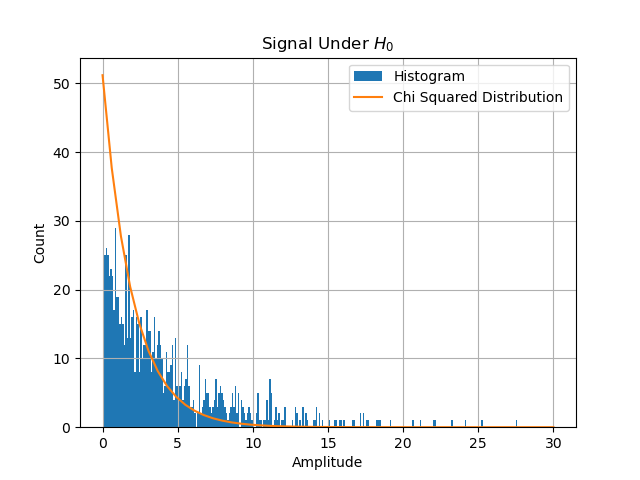
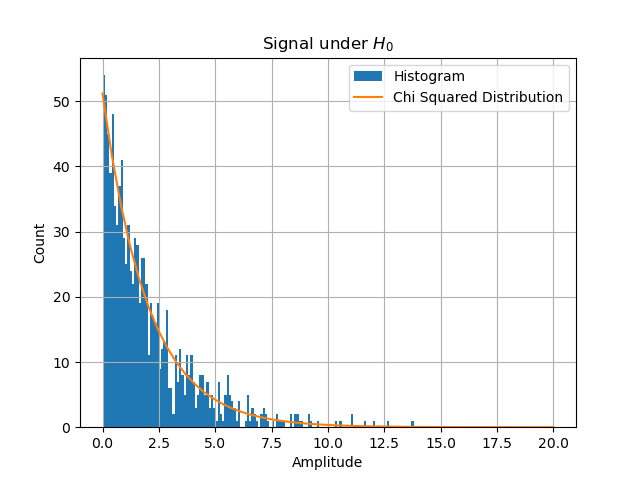
do task 5 and clean up more code

diff --git a/T3.py b/T3.py
@@ -1,62 +1,48 @@
 import matplotlib.pyplot as plt
-import sys
-from typing import Callable
 import numpy as np
 from data import load_data
-import math
+from scipy.stats import chi2
 
-if len(sys.argv) < 2:
-    print("Usage: python T1.py <filename.mat>")
-    sys.exit(1)
+def calucalte_variance(x: np.ndarray) -> np.floating:
+    real_varaiance = np.var(x.real)
+    imag_varaiance = np.var(x.imag)
 
-x = load_data(sys.argv[1])
-N = len(x)
+    return real_varaiance + imag_varaiance
 
-def generate_gaussian(mean: float, variance: float) -> Callable[[np.ndarray], np.ndarray]:
-    def f(x: np.ndarray) -> np.ndarray:
-        return 1/(np.sqrt(2*np.pi*variance))*np.exp(-(mean-x)**2/(2*variance))
+data_s = load_data("T3_data_sigma_s")
+data_w = load_data("T3_data_sigma_w")
 
-    return f
+signal_variance = calucalte_variance(data_s)
+noise_variance = calucalte_variance(data_w)
 
+def create_histogram(name: str, title: str, x: np.ndarray, var: np.floating, num_bins = 200, range = (0, 20)):
+    N = len(x)
+    bin_size = (range[1] - range[0]) / num_bins
 
-def generate_chi(k: int) -> Callable[[np.ndarray], np.ndarray]:
-    def f(x: np.ndarray) -> np.ndarray:
-        return 1/(2**(k/2) * math.gamma(k/2)) * x**(k/2 - 1) * np.exp(-x/2)
+    # Chi Squared Distribution
+    x_dist = np.linspace(*range)
+    y_dist = N * bin_size * chi2.pdf(x_dist, 2)
 
-    return f
+    # Normalization
+    x_normalized = 2 * np.abs(x**2) / var
 
-# Variance
-var_real = np.var(x.real)
-var_imag = np.var(x.imag)
+    plt.clf()
+    plt.title(title)
+    plt.xlabel("Amplitude")
+    plt.ylabel("Count")
+    plt.hist(x_normalized, bins=num_bins, range=range, label="Histogram")
+    plt.plot(x_dist, y_dist, label="Chi Squared Distribution")
+    plt.legend()
+    plt.grid()
 
-var = (var_real + var_imag) / 2
+    plt.savefig(f"{name}.png")
 
-# Histogram
-hist_num_bins = 300
-hist_range = (0, 30)
+if __name__ == "__main__":
+    print("Variance of signal:", signal_variance)
+    print("Variance of noise:", noise_variance)
 
-hist_bin_size = (hist_range[1] - hist_range[0]) / hist_num_bins
+    x_h0 = load_data("T3_data_x_H0")
+    x_h1 = load_data("T3_data_x_H1")
 
-# Chi Squared Distribution
-x_dist = np.linspace(*hist_range)
-y_dist = N * hist_bin_size * generate_chi(2)(x_dist)
-
-# Squaring
-x_normalized = 2 * np.abs(x**2) / var
-
-plt.clf()
-plt.title("Signal Under $H_0$")
-plt.xlabel("Amplitude")
-plt.ylabel("Count")
-plt.hist(x_normalized, bins=hist_num_bins, range=hist_range, label="Histogram")
-plt.plot(x_dist, y_dist, label="Chi Squared Distribution")
-plt.legend()
-plt.grid()
-
-plt.savefig("histogram.png")
-
-# plt.plot(x, y.real)
-# plt.title("Signal")
-# plt.xlabel("Time")
-# plt.ylabel("Amplitude")
-
+    create_histogram("histogram_h0", "Signal under $H_0$", x_h0, noise_variance)
+    create_histogram("histogram_h1", "Signal under $H_1$", x_h1, noise_variance + signal_variance)

diff --git a/T5.py b/T5.py
@@ -1,0 +1,36 @@
+from cProfile import label
+from scipy.stats import gamma, chi2
+import matplotlib.pyplot as plt
+import numpy as np
+from T3 import signal_variance, noise_variance
+
+def calculate_characteristics(k: int) -> tuple[np.ndarray, np.ndarray]:
+    h0_dist = gamma(a=k, scale=noise_variance)
+    h1_dist = gamma(a=k, scale=noise_variance + signal_variance)
+
+    lower = (min(h0_dist.mean(), h1_dist.mean()) - 100)
+    upper = (max(h0_dist.mean(), h1_dist.mean()) + 100)
+
+    l = np.linspace(lower, upper, 1000)
+
+    p_fa = 1-h0_dist.cdf(l)
+    p_d = 1-h1_dist.cdf(l)
+
+    return p_fa, p_d
+
+if __name__ == "__main__":
+    plt.plot([0, 1], "--", color="grey", label="$P_{fa}$ = $P_{d}$")
+
+    for i in range(0, 6):
+        k = 1 << i
+
+        p_fa, p_d = calculate_characteristics(k)
+
+        plt.plot(p_fa, p_d, label=f"$k={k}$")
+
+    plt.title("ROCs for Different Number of Samples ($k$)")
+    plt.xlabel("$P_{fa}$")
+    plt.ylabel("$P_d$")
+    plt.legend()
+    plt.grid()
+    plt.savefig("roc.png")

diff --git a/data.py b/data.py
@@ -1,11 +1,26 @@
+import os
+from typing import Literal
 import scipy.io
 import numpy as np
 
-def load_data(filename: str) -> np.ndarray:
-    mat_data = scipy.io.loadmat(filename)
+type DataName = Literal[
+    "T1_data_Sk_BPSK",
+    "T1_data_Sk_Gaussian",
+    "T3_data_sigma_s",
+    "T3_data_sigma_w",
+    "T3_data_x_H0",
+    "T3_data_x_H1"
+]
+
+script_folder = os.path.dirname(__file__)
+data_folder = os.path.join(script_folder, 'data/')
+
+def load_data(filename: DataName) -> np.ndarray:
+    file_path = data_folder + filename + ".mat"
+    mat_data = scipy.io.loadmat(file_path)
 
     for name, value in mat_data.items():
-        if name.startswith('__'):
+        if name.startswith("__"):
             continue
 
         return value.flatten()

diff --git a/T1.py b/T1.py
@@ -4,11 +4,7 @@ from typing import Callable
 import numpy as np
 from data import load_data
 
-if len(sys.argv) < 2:
-    print("Usage: python T1.py <filename.mat>")
-    sys.exit(1)
-
-S = load_data(sys.argv[1])
+S = load_data("T1_data_Sk_BPSK")
 N = len(S)
 
 def generate_signal(S: np.ndarray, N: int) -> Callable[[np.ndarray], np.ndarray]:
